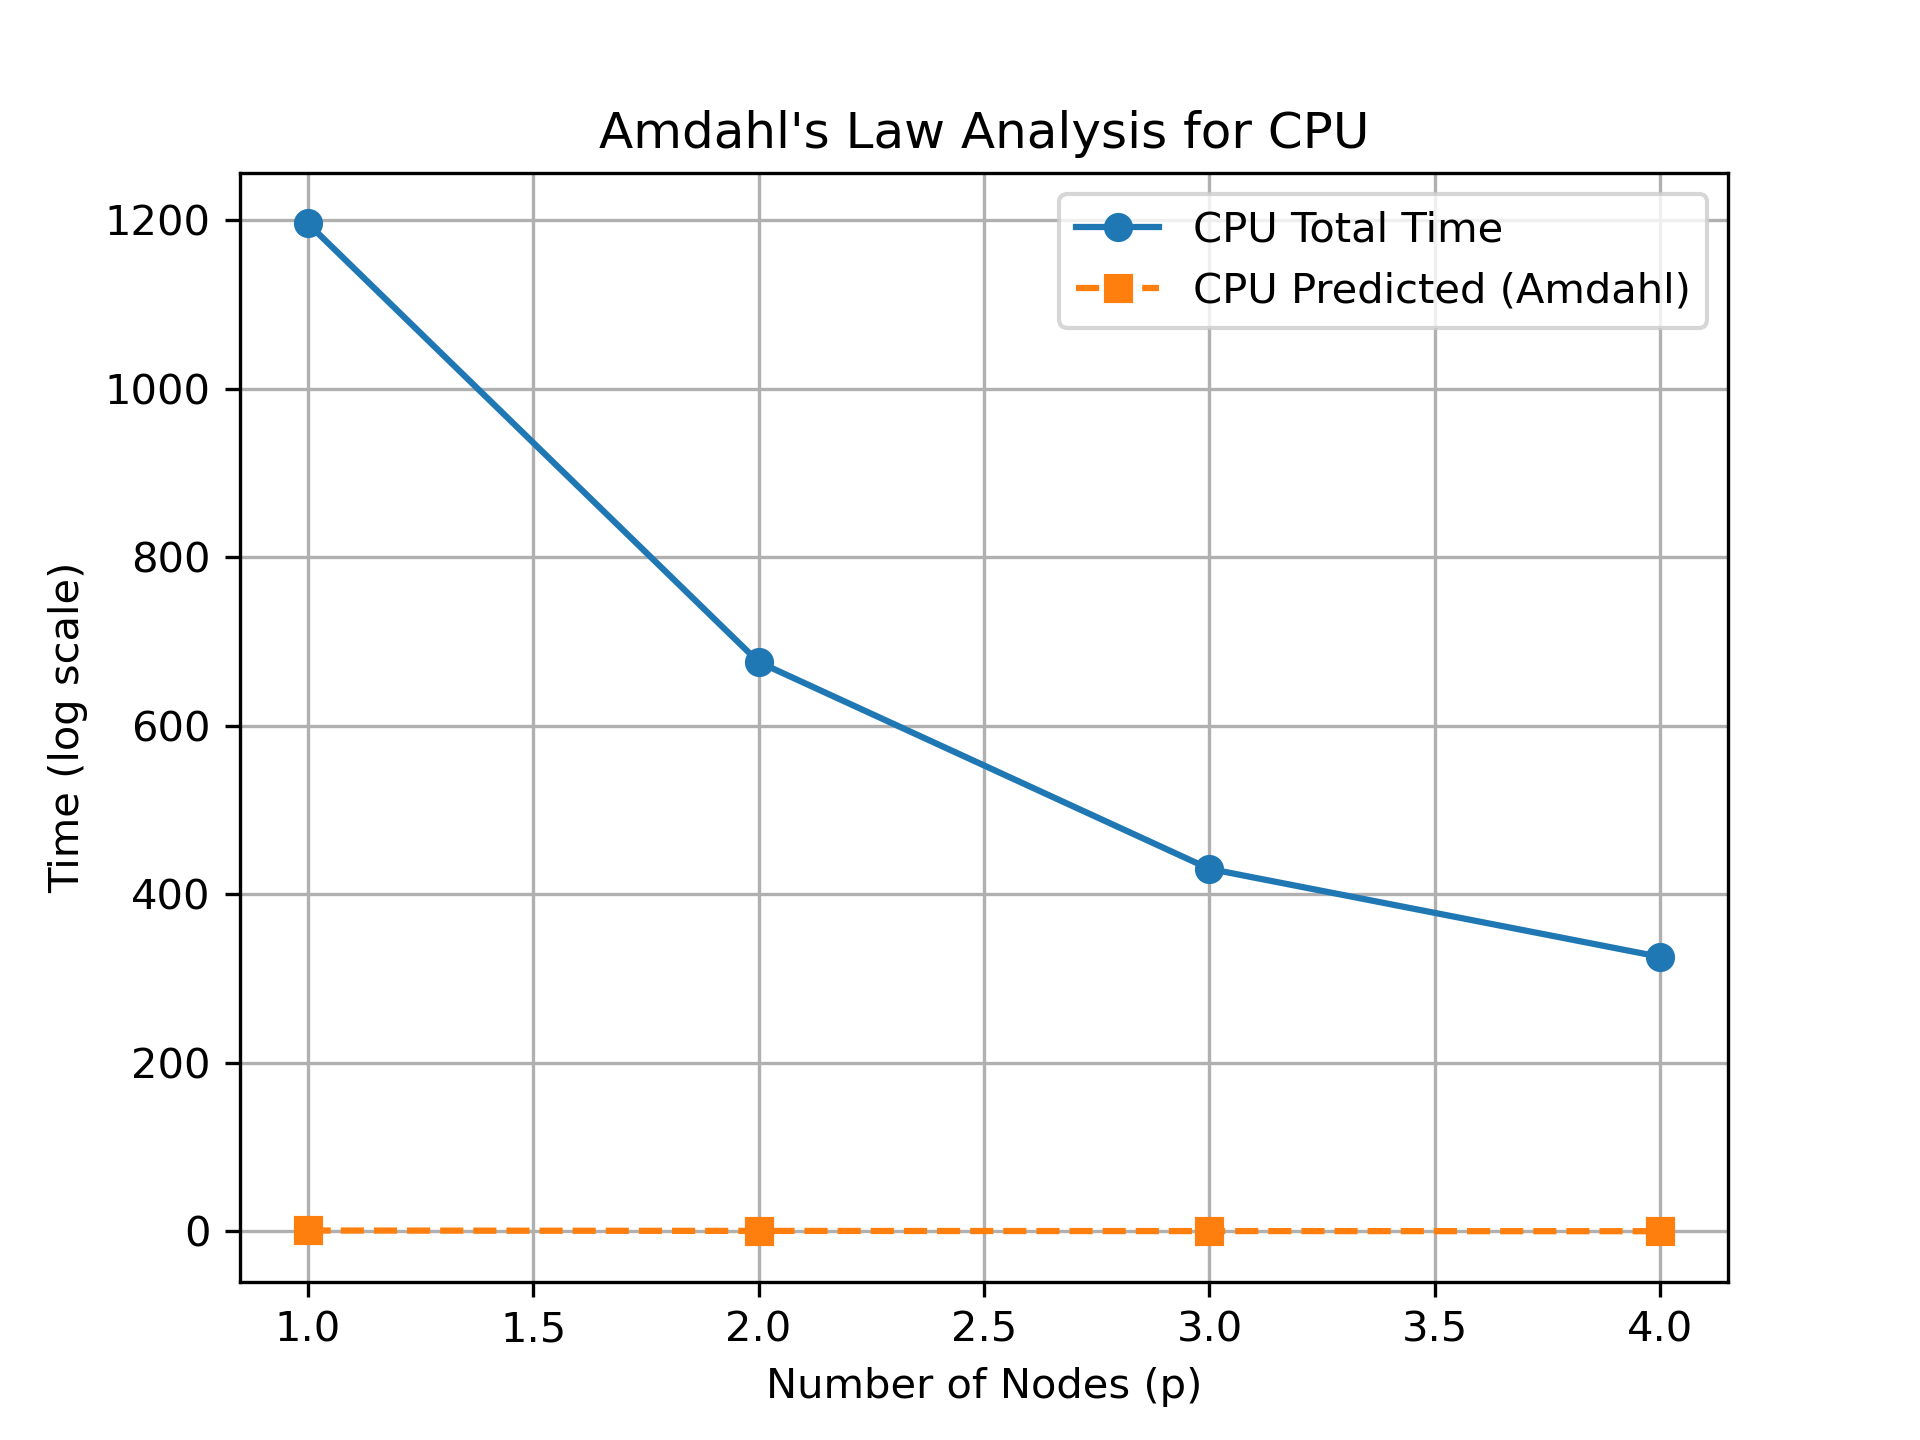
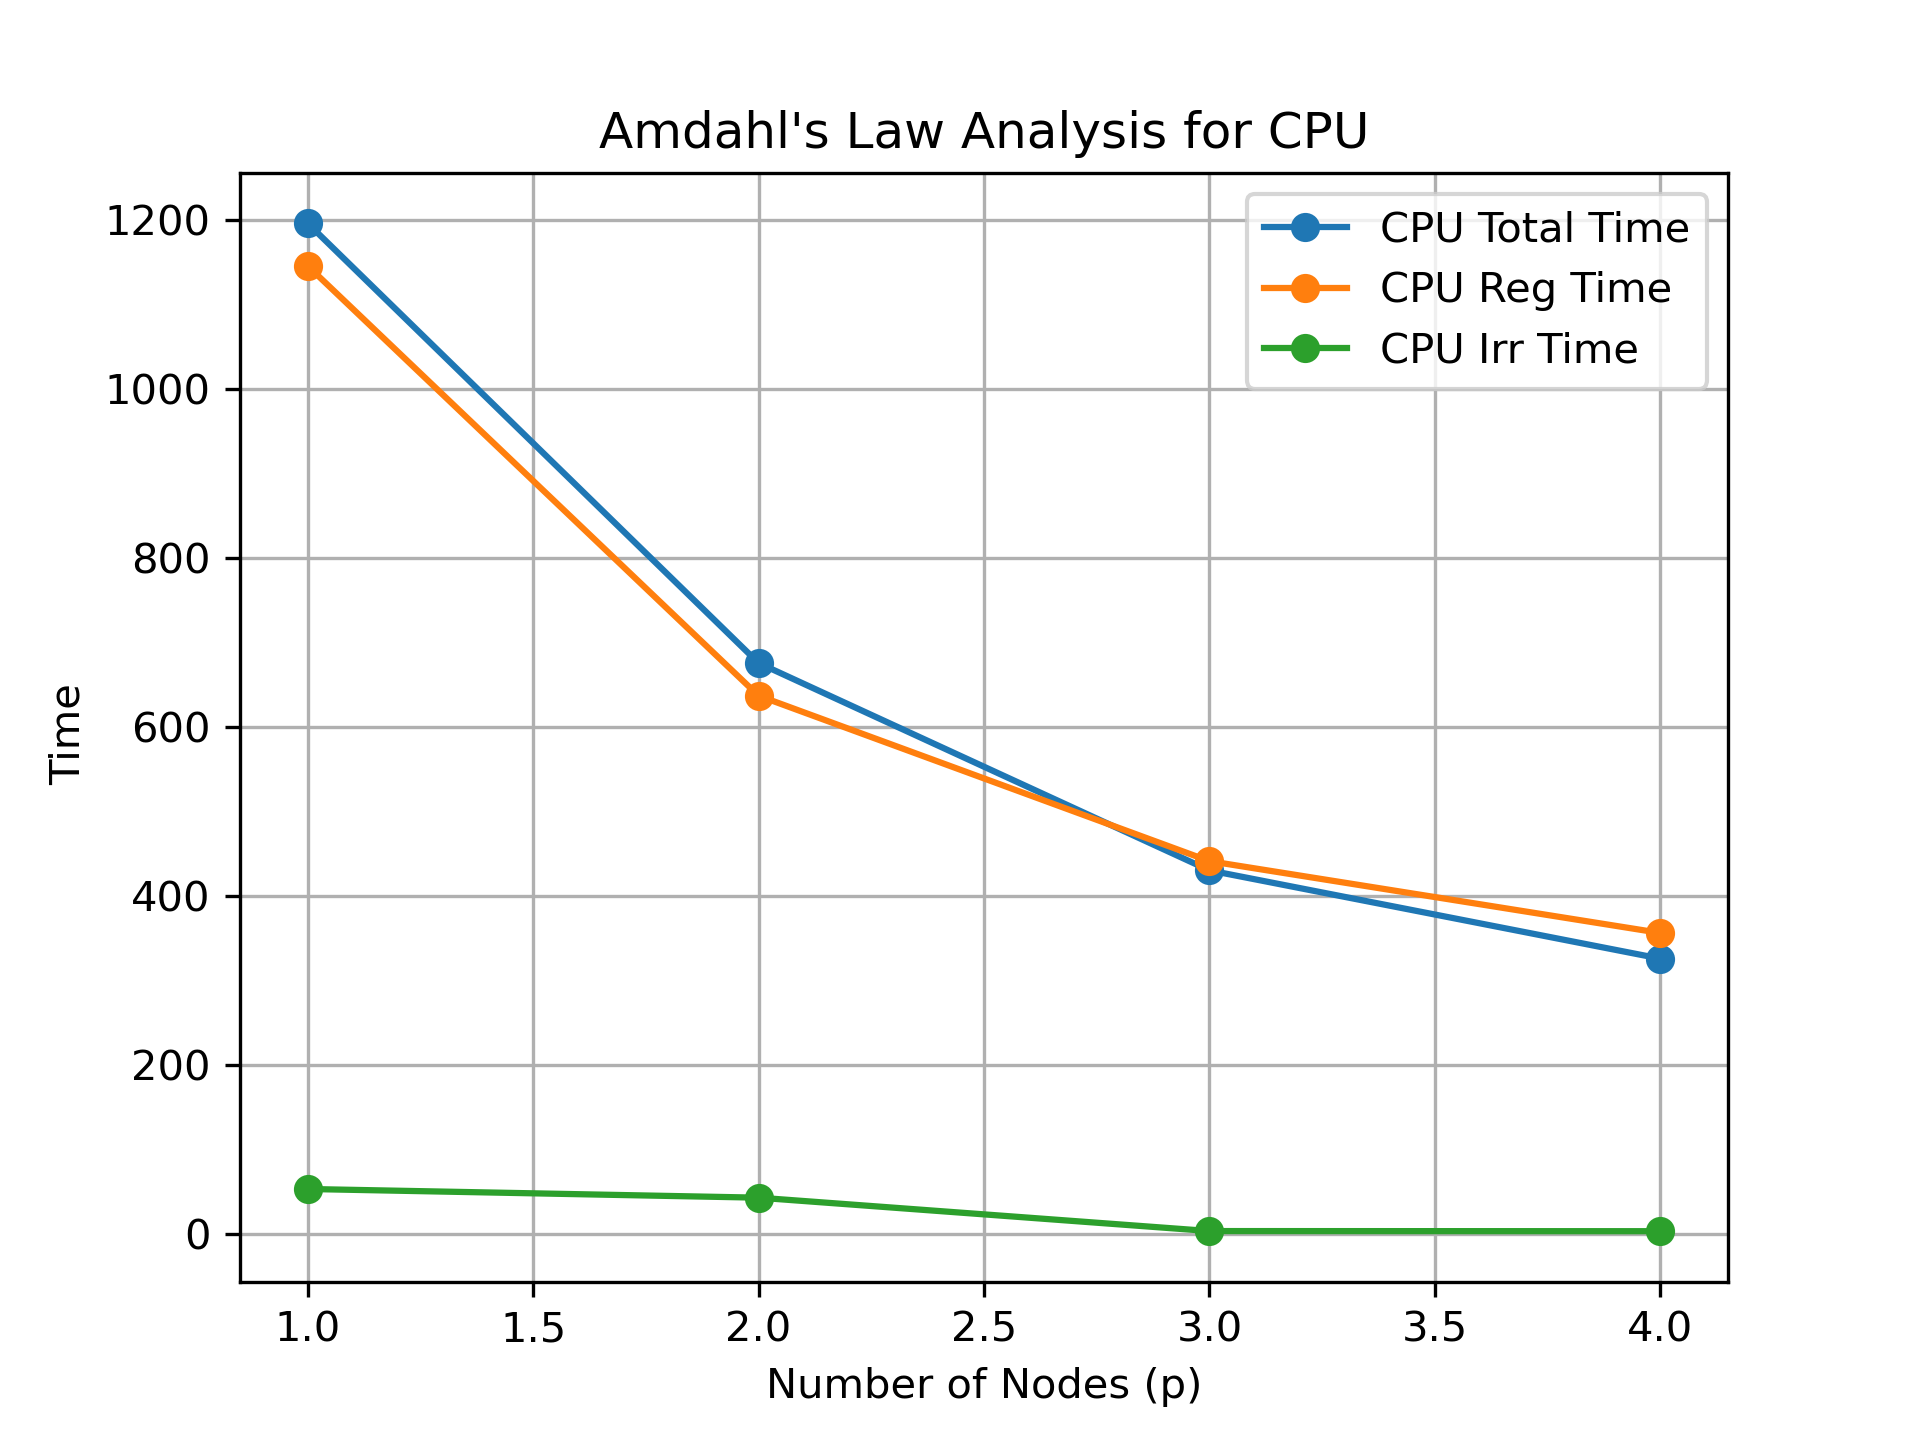
plot correction

diff --git a/main.py b/main.py
@@ -102,26 +102,46 @@ def plot_results(data_gpu, data_cpu, speedup_results_gpu, speedup_results_cpu):
         p_values_gpu, t_total_gpu, t_reg_gpu, t_err_gpu, t_adjust_gpu, t_init_gpu = zip(*data_gpu)
         p_speedup_gpu, S_predicted_gpu, Tpar_p_gpu = zip(*speedup_results_gpu)
         plt.plot(p_values_gpu, t_total_gpu, 'o-', label='GPU Total Time')
-        plt.plot(p_values_gpu, Tpar_p_gpu, 's--', label='GPU Predicted (Amdahl)')
+        plt.plot(p_values_gpu, t_reg_gpu, 'o-', label='GPU Reg Time')
+        plt.plot(p_values_gpu, t_err_gpu, 'o-', label='GPU Irr Time')
         plt.xlabel('Number of Nodes (p)')
-        plt.ylabel('Time (log scale)')
+        plt.ylabel('Time')
         plt.title("Amdahl's Law Analysis for GPU")
         plt.legend()
         plt.grid()
         plt.savefig("gpu.png",dpi=300)
+        plt.show()
+
+        plt.plot(p_values_gpu, Tpar_p_gpu, 's--', label='GPU Predicted (Amdahl)')
+        plt.xlabel('Number of Nodes (p)')
+        plt.ylabel('Par Time')
+        plt.title("Amdahl's Law Analysis for GPU")
+        plt.legend()
+        plt.grid()
+        plt.savefig("gpu_par.png",dpi=300)
         plt.show()
     
     if data_cpu:
         p_values_cpu, t_total_cpu, t_reg_cpu, t_err_cpu, t_adjust_cpu, t_init_cpu = zip(*data_cpu)
         p_speedup_cpu, S_predicted_cpu, Tpar_p_cpu = zip(*speedup_results_cpu)
         plt.plot(p_values_cpu, t_total_cpu, 'o-', label='CPU Total Time')
-        plt.plot(p_values_cpu, Tpar_p_cpu, 's--', label='CPU Predicted (Amdahl)')
+        plt.plot(p_values_cpu, t_reg_cpu, 'o-', label='CPU Reg Time')
+        plt.plot(p_values_cpu, t_err_cpu, 'o-', label='CPU Irr Time')
         plt.xlabel('Number of Nodes (p)')
-        plt.ylabel('Time (log scale)')
+        plt.ylabel('Time ')
         plt.title("Amdahl's Law Analysis for CPU")
         plt.legend()
         plt.grid()
         plt.savefig("cpu.png",dpi=300)
+        plt.show()
+
+        plt.plot(p_values_cpu, Tpar_p_cpu, 's--', label='CPU Predicted (Amdahl)')
+        plt.xlabel('Number of Nodes (p)')
+        plt.ylabel('Par Time')
+        plt.title("Amdahl's Law Analysis for CPU")
+        plt.legend()
+        plt.grid()
+        plt.savefig("cpu_par.png",dpi=300)
         plt.show()
     
    
